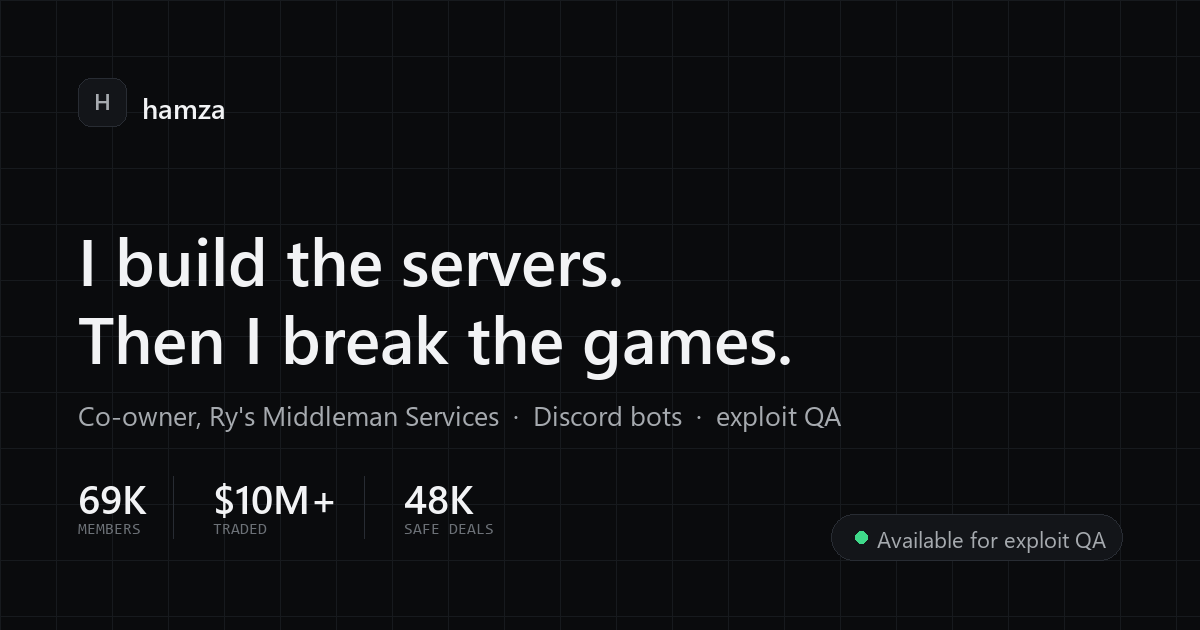
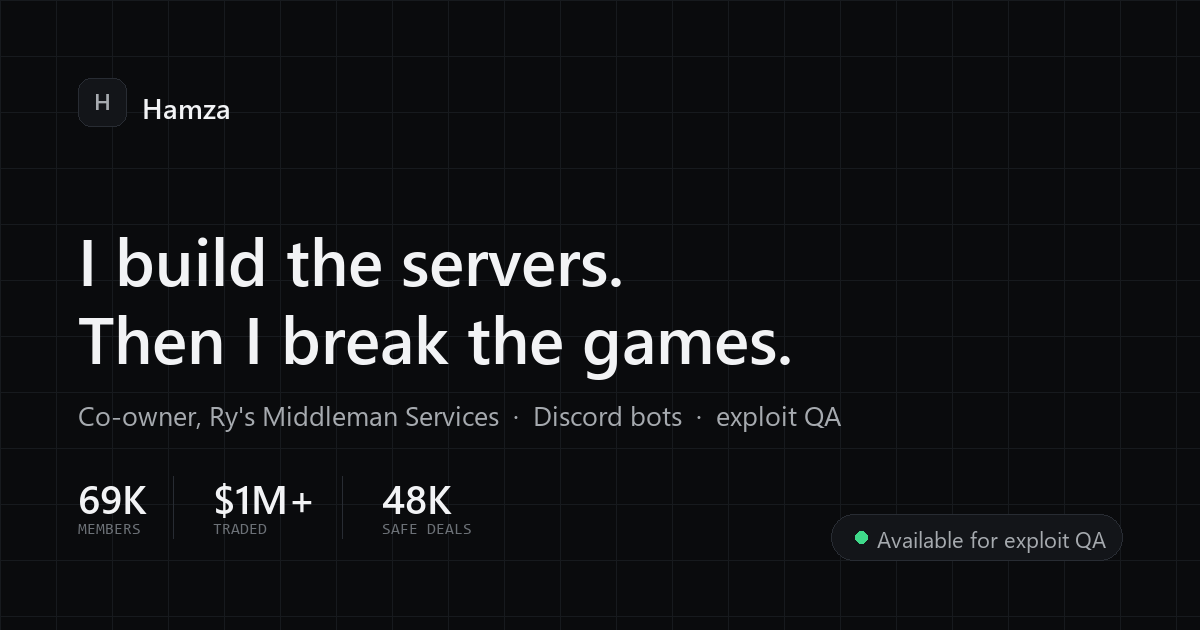
Bio page glow-up; $1M+ traded; name as Hamza
- stat corrected to $1M+ traded (meta description and share card too)
- display name is "Hamza"; shimmer gradient on the name
- main avatar uses the real Discord avatar + decoration instead of a plain
  letter, with twinkling sparkles; presence card starts on it too
- album art is the track's real artwork, spinning like a record while playing
- YouTube panel gets a gradient glow frame and a loading shimmer, so it is
  never a plain black box
- brand-colour hover glows on socials, 3D pointer tilt on the card, and the
  stat tiles sit in one row so the page fits a single phone screen

Changed region(s): [[0.3083, 0.754, 0.4008, 0.8444], [0.185, 0.754, 0.2775, 0.8143], [0.1233, 0.1508, 0.185, 0.2111]]

diff --git a/index.html b/index.html
@@ -3,8 +3,8 @@
 <head>
 <meta charset="utf-8">
 <meta name="viewport" content="width=device-width, initial-scale=1, viewport-fit=cover">
-<title>hamza</title>
-<meta name="description" content="exploit QA tester · co-owner of Ry's Middleman Services (69K members, $10M+ traded) · Discord bot dev. Open to work.">
+<title>Hamza</title>
+<meta name="description" content="exploit QA tester · co-owner of Ry's Middleman Services (69K members, $1M+ traded) · Discord bot dev. Open to work.">
 <meta name="theme-color" content="#06060A">
 <meta name="color-scheme" content="dark">
 <link rel="canonical" href="https://ohhamza.vercel.app/">
@@ -12,14 +12,14 @@
 <meta property="og:type" content="profile">
 <meta property="og:site_name" content="hamza">
 <meta property="og:url" content="https://ohhamza.vercel.app/">
-<meta property="og:title" content="hamza">
-<meta property="og:description" content="exploit QA tester · co-owner of Ry's Middleman Services (69K members, $10M+ traded) · Discord bot dev. Open to work.">
+<meta property="og:title" content="Hamza">
+<meta property="og:description" content="exploit QA tester · co-owner of Ry's Middleman Services (69K members, $1M+ traded) · Discord bot dev. Open to work.">
 <meta property="og:image" content="https://ohhamza.vercel.app/og.png">
 <meta property="og:image:width" content="1200">
 <meta property="og:image:height" content="630">
 <meta name="twitter:card" content="summary_large_image">
-<meta name="twitter:title" content="hamza">
-<meta name="twitter:description" content="exploit QA tester · co-owner of Ry's Middleman Services (69K members, $10M+ traded) · Discord bot dev. Open to work.">
+<meta name="twitter:title" content="Hamza">
+<meta name="twitter:description" content="exploit QA tester · co-owner of Ry's Middleman Services (69K members, $1M+ traded) · Discord bot dev. Open to work.">
 <meta name="twitter:image" content="https://ohhamza.vercel.app/og.png">
 <link rel="preconnect" href="https://fonts.googleapis.com">
 <link rel="preconnect" href="https://fonts.gstatic.com" crossorigin>
@@ -84,14 +84,22 @@ a{color:inherit;text-decoration:none}
 
 /* ── avatar ── */
 .ava-wrap{position:relative;margin-bottom:20px}
-.ava{width:104px;height:104px;border-radius:50%;position:relative;display:grid;place-items:center;
-  background:linear-gradient(150deg,#20203a,#0e0e18);border:2px solid transparent;
+.ava{width:112px;height:112px;border-radius:50%;position:relative;display:grid;place-items:center;
+  background:#15151f center/cover no-repeat;border:2px solid transparent;
   font-family:var(--f-dis);font-weight:700;font-size:44px;color:#fff}
 .ava::before{content:"";position:absolute;inset:-3px;border-radius:50%;padding:3px;
   background:conic-gradient(from 0deg,var(--a1),var(--a2),var(--a3),var(--a4),var(--a1));
   -webkit-mask:linear-gradient(#000 0 0) content-box,linear-gradient(#000 0 0);
   -webkit-mask-composite:xor;mask-composite:exclude;animation:spin 6s linear infinite}
 @keyframes spin{to{transform:rotate(360deg)}}
+.ava-deco{position:absolute;width:124%;height:124%;left:-12%;top:-12%;z-index:3;pointer-events:none}
+.ava .status-dot{z-index:4}
+.spark{position:absolute;width:6px;height:6px;border-radius:50%;background:#fff;pointer-events:none;box-shadow:0 0 10px 2px rgba(201,184,255,.9);opacity:0;animation:twinkle 3.2s var(--ez) infinite}
+.spark.s1{top:4px;left:-8px}.spark.s2{top:18px;right:-12px;animation-delay:.8s}.spark.s3{bottom:6px;left:-14px;animation-delay:1.6s}.spark.s4{bottom:-4px;right:-4px;animation-delay:2.4s}
+@keyframes twinkle{0%,100%{opacity:0;transform:scale(.3)}40%{opacity:1;transform:scale(1)}60%{opacity:.8}}
+#ytplayer{background:linear-gradient(110deg,#0d0d16 30%,#1c1a2e 50%,#0d0d16 70%);background-size:300% 100%;animation:load 1.6s linear infinite}
+@keyframes load{from{background-position:100% 0}to{background-position:-100% 0}}
+.card{transform-style:preserve-3d;will-change:transform;transition:transform .5s var(--ez)}
 .ava-glow{position:absolute;inset:-14px;border-radius:50%;z-index:-1;
   background:radial-gradient(circle,rgba(124,92,255,.5),transparent 70%);animation:breathe 4s var(--ez) infinite}
 @keyframes breathe{0%,100%{opacity:.6;transform:scale(1)}50%{opacity:1;transform:scale(1.08)}}
@@ -102,7 +110,11 @@ a{color:inherit;text-decoration:none}
 
 /* ── name ── */
 .name{display:flex;align-items:center;gap:9px;justify-content:center}
-.name h1{font-size:clamp(30px,8vw,42px);font-weight:700;letter-spacing:-.03em;margin:0;line-height:1}
+.name h1{font-size:clamp(34px,9vw,48px);font-weight:700;letter-spacing:-.03em;margin:0;line-height:1.05;
+  background:linear-gradient(100deg,#fff 0%,#fff 35%,#C9B8FF 45%,#9EE7FF 52%,#fff 62%,#fff 100%);
+  background-size:250% 100%;-webkit-background-clip:text;background-clip:text;color:transparent;
+  animation:shine 5s linear infinite;filter:drop-shadow(0 0 18px rgba(124,92,255,.45))}
+@keyframes shine{from{background-position:120% 0}to{background-position:-130% 0}}
 .caret{display:inline-block;width:3px;height:.95em;background:var(--a1);border-radius:2px;
   animation:blink 1.05s steps(1) infinite;box-shadow:0 0 12px var(--a1)}
 @keyframes blink{0%,50%{opacity:1}51%,100%{opacity:0}}
@@ -156,23 +168,33 @@ a{color:inherit;text-decoration:none}
   background:var(--glass);border:1px solid var(--stroke);backdrop-filter:blur(12px);-webkit-backdrop-filter:blur(12px);
   color:var(--text-2);transition:transform .22s var(--ez),color .22s var(--ez),border-color .22s var(--ez),background .22s var(--ez)}
 .soc svg{width:22px;height:22px}
-.soc:hover{transform:translateY(-4px) scale(1.06);color:#fff;border-color:var(--stroke-2);background:var(--glass-2)}
+.soc:hover{transform:translateY(-4px) scale(1.08);color:#fff;border-color:var(--gc,var(--stroke-2));background:var(--glass-2);box-shadow:0 0 22px -2px var(--gc,rgba(124,92,255,.6)),inset 0 0 12px -4px var(--gc,transparent)}
+.soc:nth-child(1){--gc:#5865F2}.soc:nth-child(2){--gc:#E2231A}.soc:nth-child(3){--gc:#34D399}.soc:nth-child(4){--gc:#7C5CFF}.soc:nth-child(5){--gc:#F472B6}
 .soc:hover .tip{opacity:1;transform:translateY(0)}
 .soc .tip{position:absolute;bottom:calc(100% + 8px);left:50%;transform:translate(-50%,4px);opacity:0;
   font-family:var(--f-mono);font-size:10px;white-space:nowrap;padding:4px 8px;border-radius:6px;
   background:#12121c;border:1px solid var(--stroke);color:var(--text);pointer-events:none;transition:.2s var(--ez)}
 
 /* ── stat chips ── */
-.stats{margin-top:20px;display:flex;gap:10px;justify-content:center;flex-wrap:wrap}
-.stat{padding:11px 16px;border-radius:13px;display:flex;flex-direction:column;align-items:center;gap:2px;min-width:88px}
+.stats{margin-top:20px;width:100%;display:grid;grid-template-columns:repeat(3,minmax(0,1fr));gap:10px}
+.stats .glass{width:auto}
+.stat{padding:13px 8px;border-radius:14px;display:flex;flex-direction:column;align-items:center;gap:3px;min-width:0;
+  transition:transform .25s var(--ez),box-shadow .25s var(--ez)}
+.stat:hover{transform:translateY(-3px);box-shadow:0 10px 30px -10px rgba(124,92,255,.55)}
 .stat .v{font-size:18px;font-weight:700;letter-spacing:-.02em;font-variant-numeric:tabular-nums}
 .stat .v.live{color:var(--on)}
 .stat .k{font-family:var(--f-mono);font-size:10px;color:var(--text-3);text-transform:uppercase;letter-spacing:.06em}
 
 /* ── music player ── */
 .player{margin-top:20px;padding:13px 15px;display:flex;align-items:center;gap:13px}
-.art{width:48px;height:48px;border-radius:11px;flex:none;position:relative;overflow:hidden;
-  background:linear-gradient(140deg,var(--a1),var(--a4));display:grid;place-items:center;color:#fff}
+.art{width:52px;height:52px;border-radius:50%;flex:none;position:relative;overflow:hidden;
+  background:#111 center/cover no-repeat;display:grid;place-items:center;color:#fff;
+  box-shadow:0 0 0 2px rgba(255,255,255,.08),0 0 20px -4px rgba(244,114,182,.55)}
+.art::before{content:"";position:absolute;inset:0;background:radial-gradient(circle,rgba(0,0,0,.55) 0 18%,transparent 19% 60%,rgba(0,0,0,.35));}
+.art::after{content:"";position:absolute;left:50%;top:50%;width:9px;height:9px;margin:-4.5px;border-radius:50%;background:#0b0b12;border:1px solid rgba(255,255,255,.25)}
+.art .eq{position:relative;z-index:2;opacity:0;transition:opacity .3s}
+.playing .art{animation:vinyl 4s linear infinite}
+@keyframes vinyl{to{transform:rotate(360deg)}}
 .art svg{width:22px;height:22px;opacity:.95}
 .pl-main{flex:1;min-width:0;text-align:left}
 .pl-top{display:flex;align-items:baseline;justify-content:space-between;gap:8px}
@@ -193,7 +215,9 @@ a{color:inherit;text-decoration:none}
 .playing .eq span:nth-child(3){animation-delay:.3s}
 .playing .eq span:nth-child(4){animation-delay:.45s}
 @keyframes eq{0%,100%{height:25%}50%{height:100%}}
-.ytwrap{margin-top:10px;padding:7px;overflow:hidden;transition:max-height .4s var(--ez),opacity .3s var(--ez);max-height:0;opacity:0}
+.ytwrap{margin-top:10px;padding:7px;overflow:hidden;position:relative;
+  background:linear-gradient(var(--glass),var(--glass)) padding-box,linear-gradient(130deg,var(--a1),var(--a2),var(--a3),var(--a4)) border-box;border:1px solid transparent;
+  box-shadow:0 0 40px -10px rgba(124,92,255,.6);transition:max-height .4s var(--ez),opacity .3s var(--ez);max-height:0;opacity:0}
 .ytwrap.open{max-height:280px;opacity:1}
 #ytplayer{width:100%;aspect-ratio:16/9;border-radius:11px;overflow:hidden;background:#000}
 #ytplayer iframe{width:100%;height:100%;border:0;display:block}
@@ -217,7 +241,7 @@ a{color:inherit;text-decoration:none}
 
     <div class="ava-wrap">
       <div class="ava-glow"></div>
-      <div class="ava">H<span class="status-dot" id="sdot"></span></div>
+      <div class="ava" id="ava" style="background-image:url('https://cdn.discordapp.com/avatars/801691377796120577/afaca593cbf22e10d726880c419d4b60.png?size=256')"><img class="ava-deco" id="ava-deco" alt="" src="https://cdn.discordapp.com/avatar-decoration-presets/a_c07d52db7a61437a2f3d92bcdcad3242.png?size=240"><span class="status-dot" id="sdot"></span></div><span class="spark s1"></span><span class="spark s2"></span><span class="spark s3"></span><span class="spark s4"></span>
     </div>
 
     <div class="name">
@@ -235,7 +259,7 @@ a{color:inherit;text-decoration:none}
 
     <!-- discord presence (live via Lanyard) -->
     <div class="glass presence" id="presence">
-      <div class="pa" id="pa"><span id="pa-mono">H</span><span class="pa-dot" id="padot"></span></div>
+      <div class="pa" id="pa" style="background-image:url('https://cdn.discordapp.com/avatars/801691377796120577/afaca593cbf22e10d726880c419d4b60.png?size=256')"><span id="pa-mono" style="display:none">H</span><img class="pa-deco" alt="" src="https://cdn.discordapp.com/avatar-decoration-presets/a_c07d52db7a61437a2f3d92bcdcad3242.png?size=240"><span class="pa-dot" id="padot"></span></div>
       <div class="pinfo">
         <div class="pn"><span id="pname">ohhamza</span>
           <span class="pbadge">QA</span><span class="pbadge">OWNER</span>
@@ -276,12 +300,12 @@ a{color:inherit;text-decoration:none}
     <div class="stats">
       <div class="glass stat"><span class="v live" id="s-ccu">&mdash;</span><span class="k">playing now</span></div>
       <div class="glass stat"><span class="v" id="s-mm">69K</span><span class="k">members</span></div>
-      <div class="glass stat"><span class="v">$10M+</span><span class="k">traded</span></div>
+      <div class="glass stat"><span class="v">$1M+</span><span class="k">traded</span></div>
     </div>
 
     <!-- music player (official YouTube embed drives the real track) -->
     <div class="glass player" id="player">
-      <div class="art">
+      <div class="art" style="background-image:url('https://i.ytimg.com/vi/dzVbKrWvI9Y/hqdefault.jpg')">
         <span class="eq"><span></span><span></span><span></span><span></span></span>
       </div>
       <div class="pl-main">
@@ -309,7 +333,7 @@ a{color:inherit;text-decoration:none}
     var i=0; (function tick(){ el.textContent=text.slice(0,++i); if(i<text.length) setTimeout(tick,speed); else if(done) done(); })();
   }
   var typedEl=document.getElementById('typed'), bioEl=document.getElementById('bio');
-  type(typedEl,'hamza',110,function(){
+  type(typedEl,'Hamza',110,function(){
     type(bioEl,"breaking builds before your users do.",30);
   });
 
@@ -379,11 +403,12 @@ a{color:inherit;text-decoration:none}
         var ext=(u.avatar.indexOf('a_')===0)?'gif':'png';
         var url='https://cdn.discordapp.com/avatars/'+DISCORD_ID+'/'+u.avatar+'.'+ext+'?size=128';
         paEl.style.backgroundImage="url('"+url+"')";
+        var big=document.getElementById('ava'); if(big) big.style.backgroundImage="url('"+url.replace('size=128','size=256')+"')";
         if(paMono) paMono.style.display='none';
       }
       // avatar decoration (the animated frame)
       if(u.avatar_decoration_data && u.avatar_decoration_data.asset){
-        var deco=document.createElement('img'); deco.className='pa-deco'; deco.alt='';
+        var deco=paEl.querySelector('.pa-deco')||document.createElement('img'); deco.className='pa-deco'; deco.alt='';
         deco.src='https://cdn.discordapp.com/avatar-decoration-presets/'+u.avatar_decoration_data.asset+'.png?size=160';
         paEl.appendChild(deco);
       }
@@ -470,6 +495,16 @@ a{color:inherit;text-decoration:none}
 
   // pre-load the player so the first tap plays without waiting on the API
   loadYT();
+
+  /* 3D tilt that follows the pointer */
+  var card=document.querySelector('.card');
+  if(card && !reduce && matchMedia('(hover:hover)').matches){
+    addEventListener('mousemove',function(e){
+      var x=e.clientX/innerWidth-.5, y=e.clientY/innerHeight-.5;
+      card.style.transform='perspective(1100px) rotateY('+(x*7).toFixed(2)+'deg) rotateX('+(-y*7).toFixed(2)+'deg)';
+    });
+    document.addEventListener('mouseleave',function(){ card.style.transform=''; });
+  }
 })();
 </script>
 </body>
